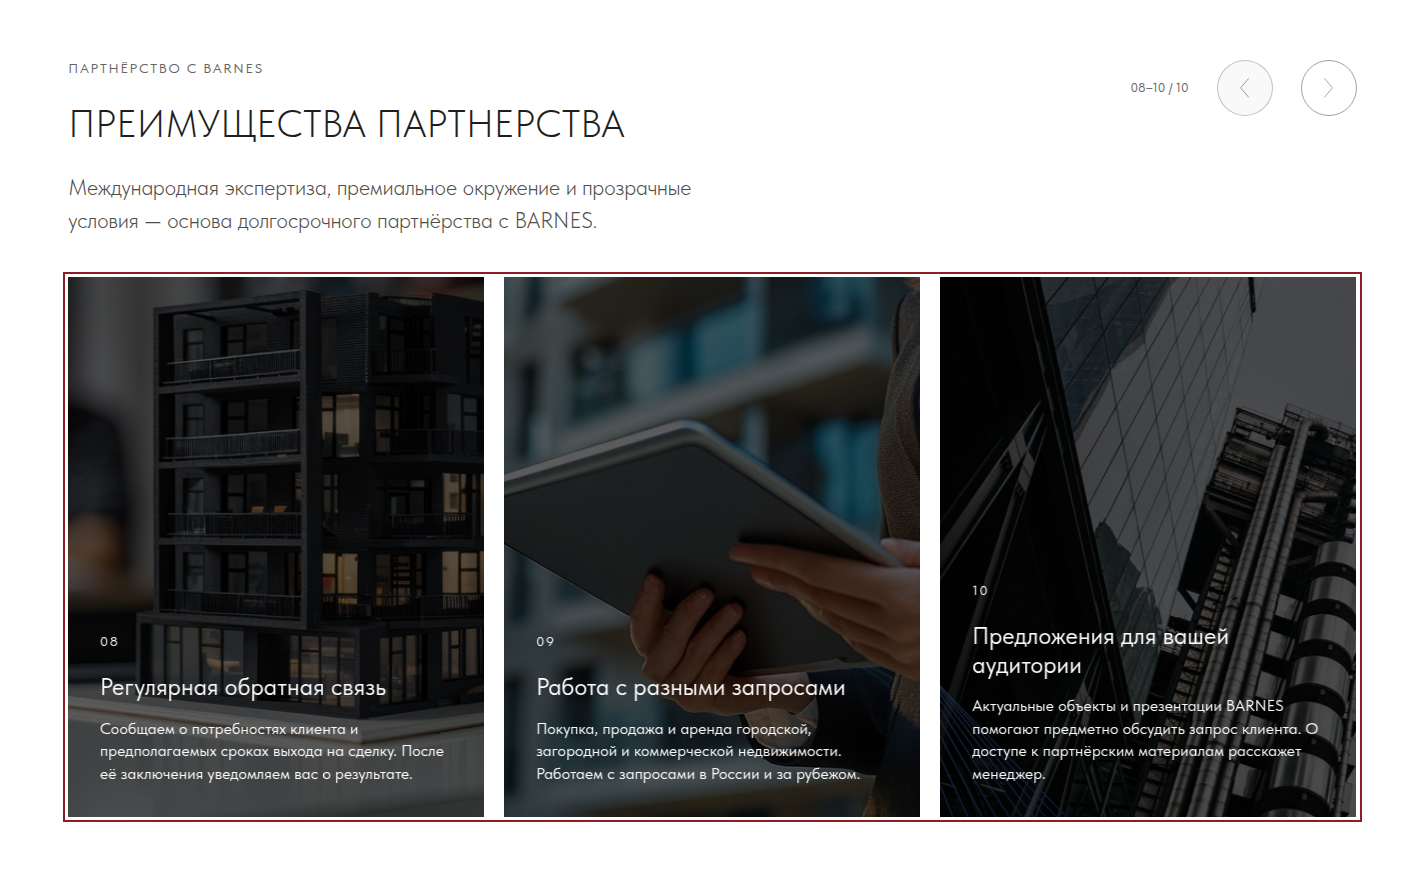
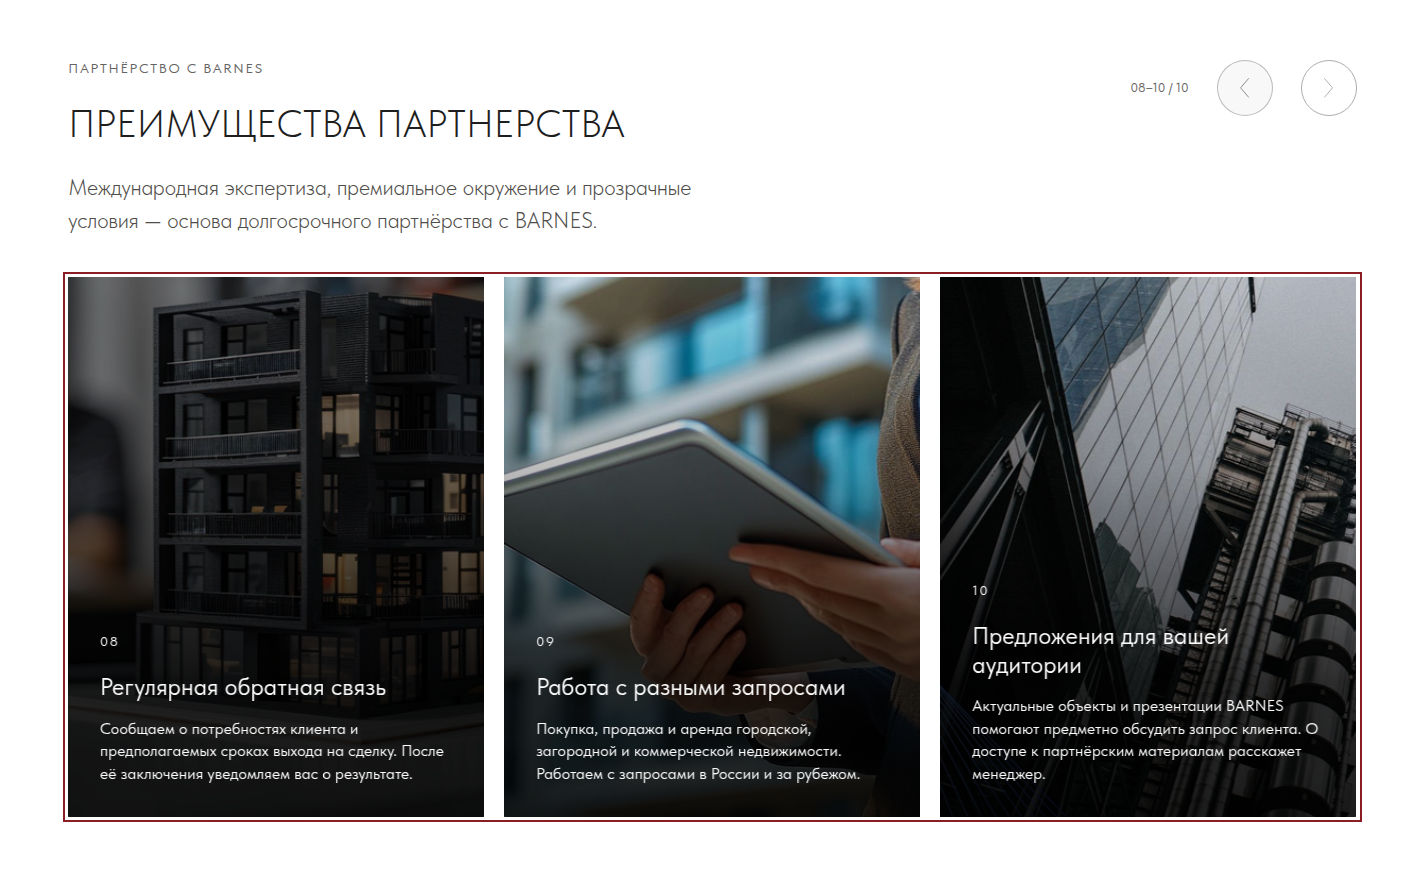
fix: darken advantage photos on hover instead of permanently

diff --git a/for-partners/assets/advantages-enhanced.css b/for-partners/assets/advantages-enhanced.css
@@ -27,7 +27,19 @@
   display:block; width:100%; height:100%; object-fit:cover; object-position:center;
 }
 #advantages .ambassadors-advantages__overlay {
-  position:absolute; inset:0; background: rgba(0,0,0,.64);
+  position:absolute; inset:0;
+  background: linear-gradient(180deg, rgba(0,0,0,.08), rgba(0,0,0,.25) 35%, rgba(0,0,0,.78) 75%, rgba(0,0,0,.86));
+}
+#advantages .ambassadors-advantages__media::after {
+  content:""; position:absolute; inset:0; background:rgba(0,0,0,.38);
+  opacity:0; transition:opacity 240ms ease; pointer-events:none;
+}
+@media(hover:hover) and (pointer:fine) {
+  #advantages .ambassadors-advantages__card:hover .ambassadors-advantages__media::after { opacity:1; }
+}
+#advantages .splide__track:focus-visible .is-active .ambassadors-advantages__media::after { opacity:1; }
+@media(prefers-reduced-motion:reduce) {
+  #advantages .ambassadors-advantages__media::after { transition:none; }
 }
 #advantages .ambassadors-advantages__card-copy {
   position: relative;

diff --git a/for-partners/index.html b/for-partners/index.html
@@ -72,6 +72,6 @@
   <link rel="stylesheet" href="assets/directions/directions.css?v=3">
   <script defer src="assets/directions/directions-data.js?v=3"></script>
   <script defer src="assets/directions/directions.js?v=3"></script>
-  <link rel="stylesheet" href="assets/advantages-enhanced.css?v=20261008-1">
+  <link rel="stylesheet" href="assets/advantages-enhanced.css?v=20261008-2">
   <script defer src="for-partners.js?v=20261008-21"></script>
 </body></html>

diff --git a/for-partners/audit/advantages-content.md b/for-partners/audit/advantages-content.md
@@ -25,7 +25,7 @@
 
 Сохранены фотографии и существующий слайдер, добавлены 6 карточек и описания всех 10. Первыми показаны масштаб, опыт и премиальное окружение; механика сотрудничества следует дальше. Новые фотографии — уже имеющиеся в странице ассеты; каноническая библиотека barnes-assets проверена, новые большие наборы не копировались. Изображения декоративны (alt пустой), подписи доступны в HTML.
 
-Равномерный overlay black .64, без новых градиентов/теней. На самом светлом участке изображения результирующий фон не светлее #5c5c5c: белый текст имеет контраст приблизительно 6.7:1. Текст полностью непрозрачен. H2 22/26.4, 38/45.6, 44/52.8, вес 300; Lead 15/21 mobile/tablet и 22/33 desktop, вес 300. Eyebrow 12/14.4 или 14/16.1, вес 400; отступ 12/25 px. Benefit/Card title: 24/28.8 px desktop, 20/24 px tablet/mobile, 400. Body: 16/22.4 px, 400. Скругление 1 px. Минимальная высота 540/460 px, высота может расти с текстом, без обрезки.
+По уточнению пользователя затемнение интерактивное: дополнительный black .38 проявляется при hover за 240 ms. В покое фото светлее сверху, под текстом сохранён защитный градиент; на touch hover не требуется. Клавиатурный focus-visible трека затемняет активную карточку, reduced-motion отключает переход. Текст полностью непрозрачен. H2 22/26.4, 38/45.6, 44/52.8, вес 300; Lead 15/21 mobile/tablet и 22/33 desktop, вес 300. Eyebrow 12/14.4 или 14/16.1, вес 400; отступ 12/25 px. Benefit/Card title: 24/28.8 px desktop, 20/24 px tablet/mobile, 400. Body: 16/22.4 px, 400. Скругление 1 px. Минимальная высота 540/460 px, высота может расти с текстом, без обрезки.
 
 Счётчик отражает диапазон видимых карточек. Стрелки, свайп существующего слайдера и клавиши Left/Right/Home/End; скрытые карточки исключены через aria-hidden. Focus-visible сохранён; reduced-motion отключает движение штатным обработчиком.
 

diff --git a/for-partners/CHANGELOG.md b/for-partners/CHANGELOG.md
@@ -1,5 +1,10 @@
 # Изменения страницы партнёров
 
+## 2026-10-08 — затемнение преимуществ по наведению
+
+- Исправлена трактовка эффекта: постоянный равномерный тёмный слой заменён лёгким верхом и защитным градиентом под текстом.
+- Дополнительное затемнение появляется плавно только при hover мышью; при клавиатурном фокусе выделяется активная карточка. На touch читаемость не зависит от hover. Reduced-motion отключает переход.
+
 ## 2026-10-08 — расширение существующих преимуществ
 
 - Слайдер расширен с 4 до 10 карточек: у всех добавлены описания, включая международный масштаб, опыт, премиальную аудиторию, СМИ, партнёрскую сеть и Art de Vivre.
